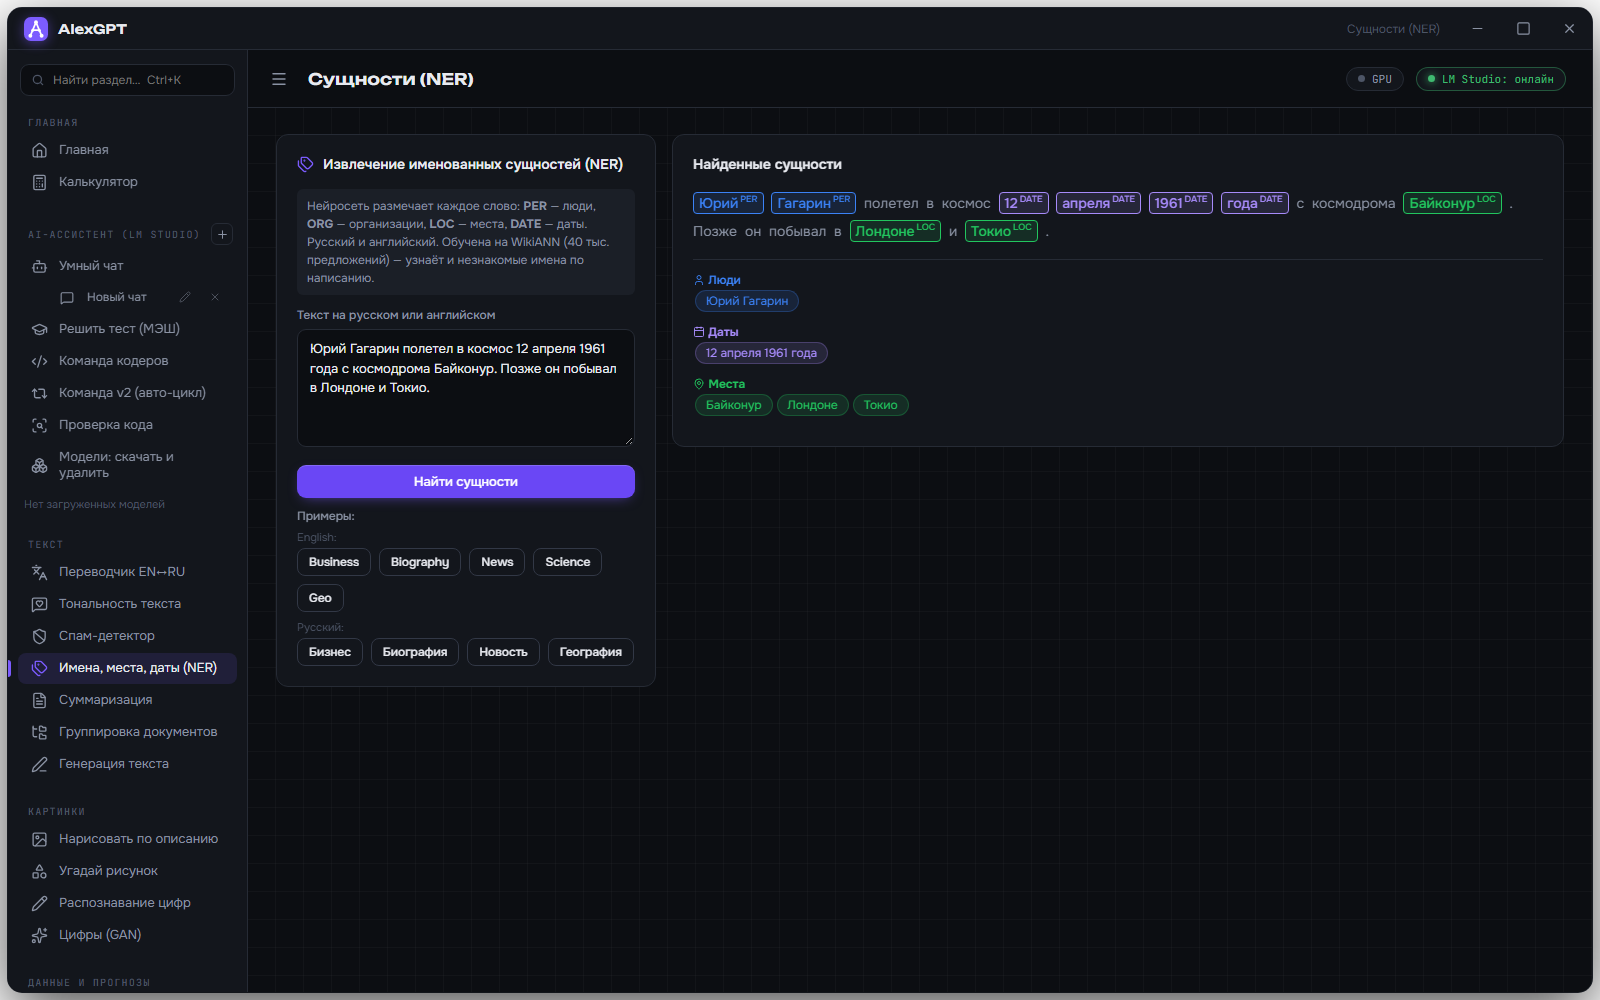
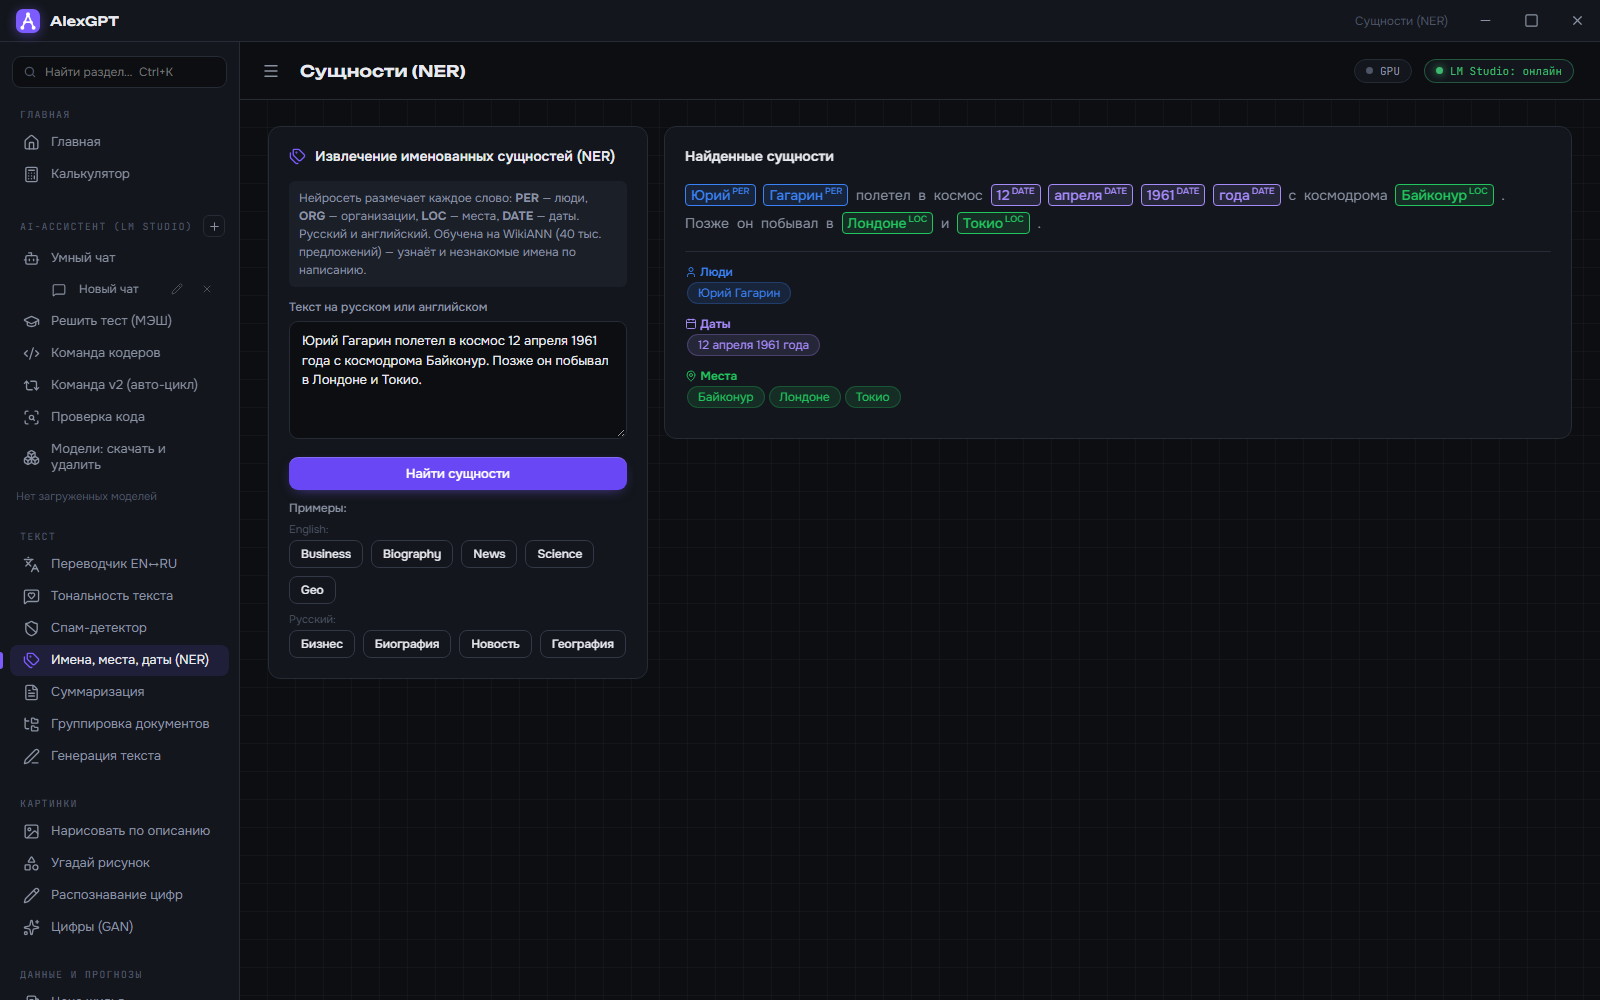
Скриншоты без светлой рамки вокруг окна
Окно без рамки рисует себя с отступом 8 px, скруглением и тенью; в кадре
Chromium это поле заливалось светлым фоном страницы, и на GitHub вокруг окна
стояла светлая рамка. Кадры теперь снимаются в развёрнутом виде
(html[data-max='1']). Заметил автор.

diff --git a/tools/make_screenshots.py b/tools/make_screenshots.py
@@ -60,6 +60,12 @@ def start_server(port: int, data_dir: str) -> subprocess.Popen:
 
 def shot(page, name: str) -> None:
     path = OUT / name
+    # Окно без рамки рисует себя с отступом 8 px, скруглением и тенью: в настоящем
+    # прозрачном окне это поле не видно, а в кадре Chromium оно заливалось светлым
+    # фоном страницы, и на GitHub вокруг окна стояла светлая рамка. Снимаем так,
+    # как окно выглядит развёрнутым (html[data-max='1']): без отступа и тени.
+    page.evaluate("document.documentElement.dataset.max = '1'")
+    page.wait_for_timeout(150)
     page.screenshot(path=str(path))
     print(f"  {name} ({path.stat().st_size // 1024} КБ)")
 
